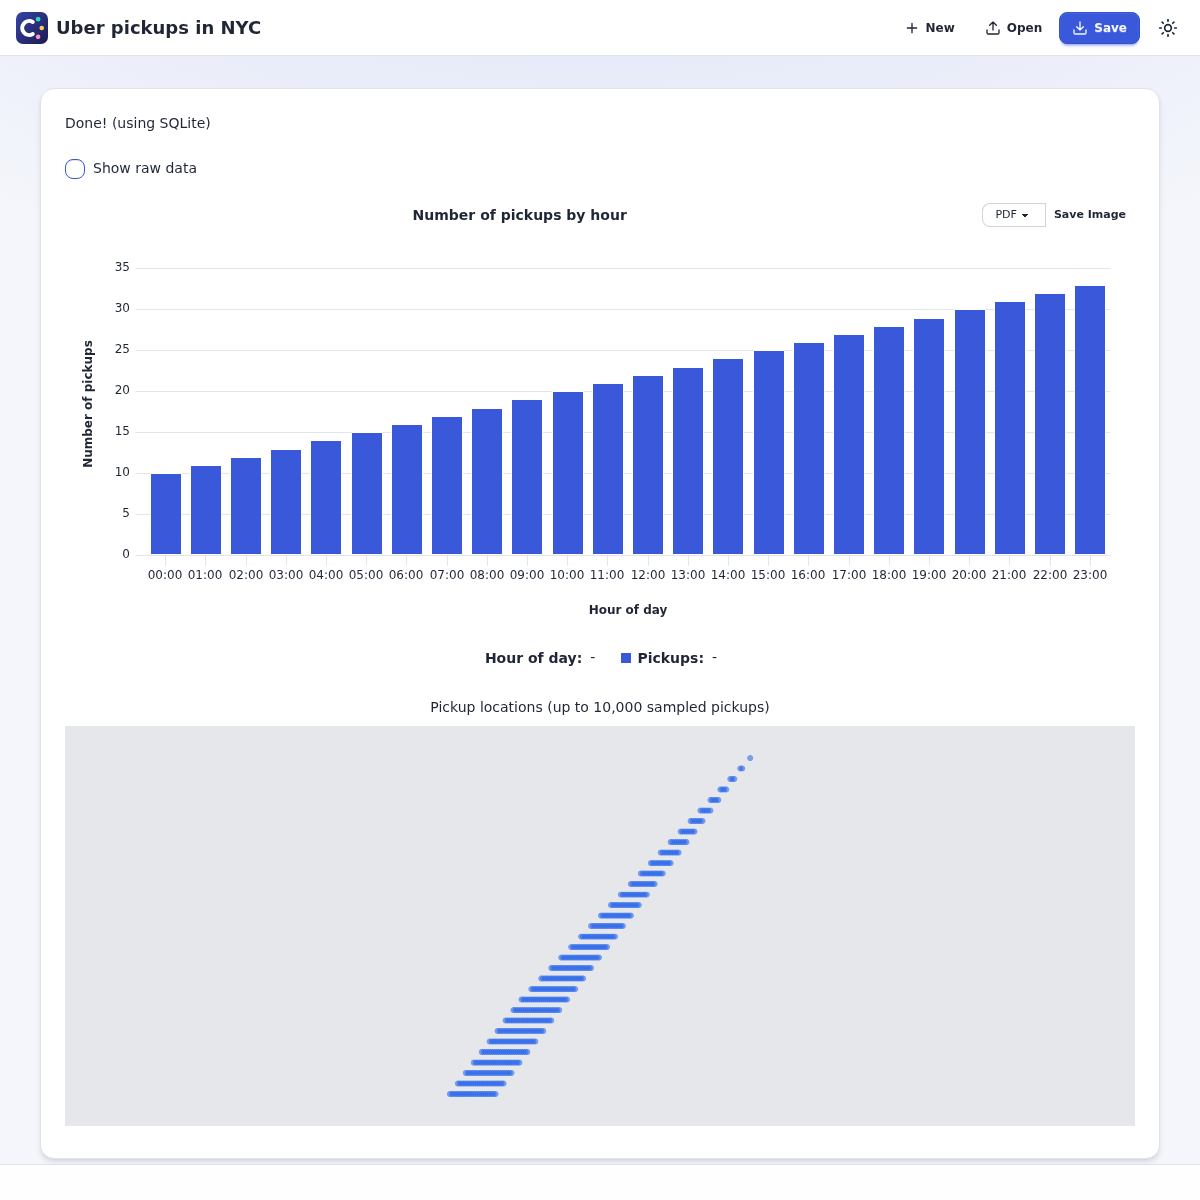
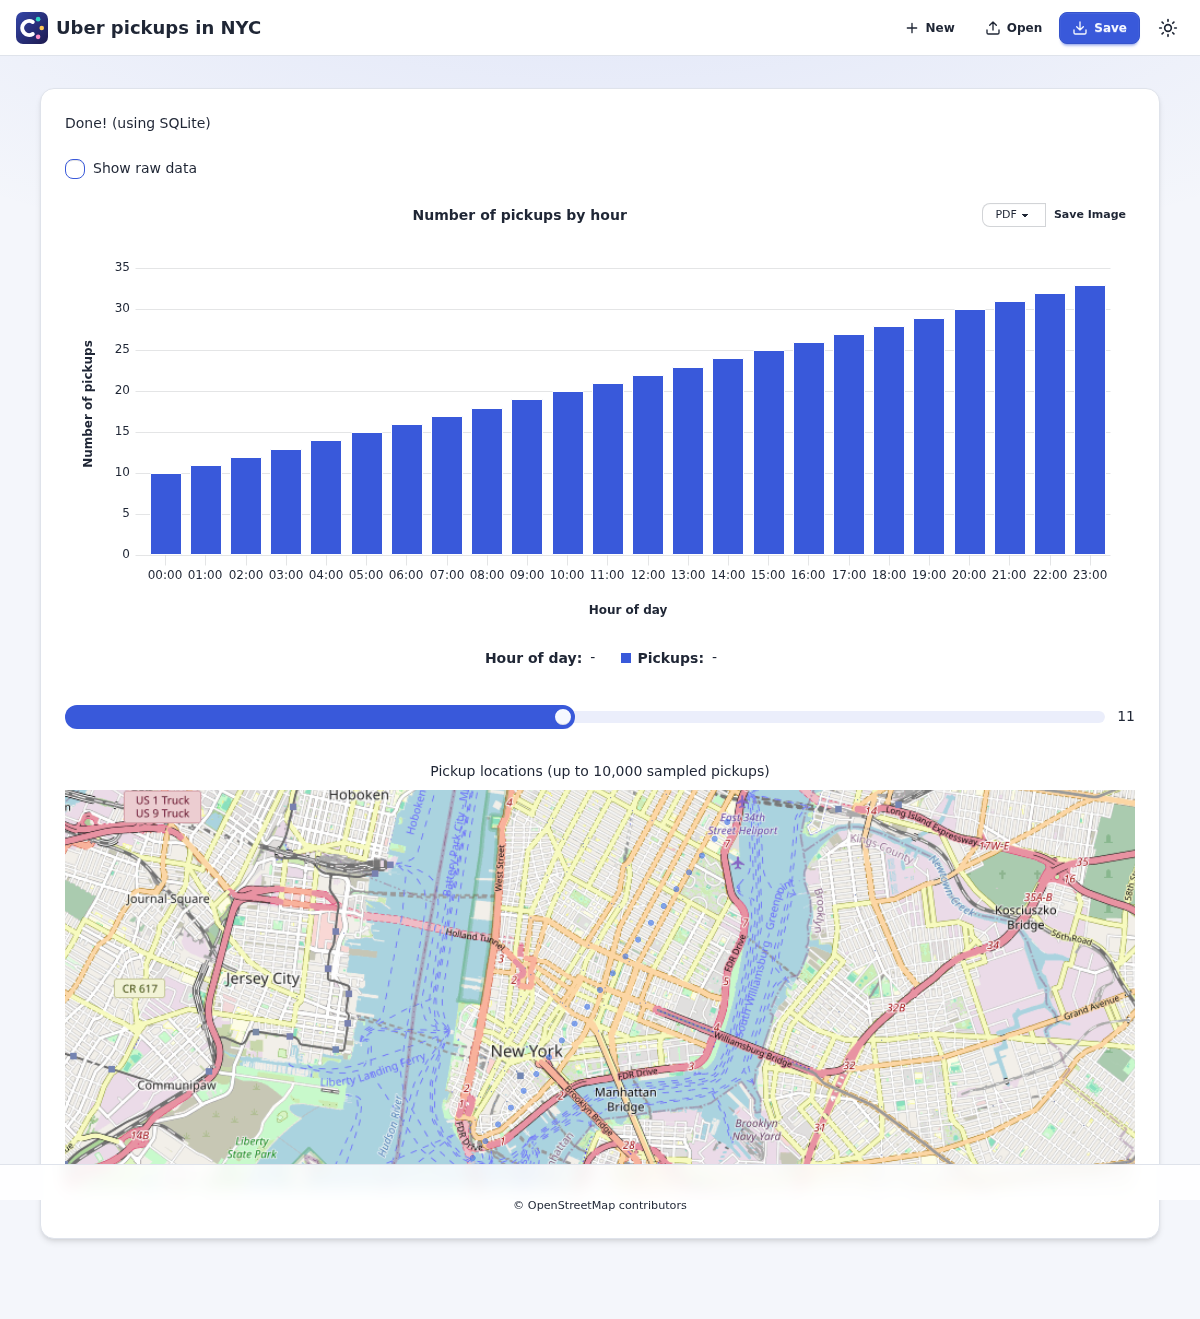
Show street maps in Uber example screenshots

diff --git a/docs/screenshots.py b/docs/screenshots.py
@@ -190,7 +190,7 @@ def _textual_demo(main_view: Any, _model: Optional[Model]) -> None:
 
 
 def _uberpickups_setup(main_view: Any, model: Any) -> None:
-    # Generated rows and no tiles keep screenshots independent of external services.
+    # Generated rows avoid downloading the full CSV; street tiles still need the network.
     with model.uber_data.connection() as db:
         db.executemany(
             "INSERT INTO uber_data VALUES (?, ?, ?, ?)",
@@ -205,7 +205,6 @@ def _uberpickups_setup(main_view: Any, model: Any) -> None:
                 for index in range(10 + hour)
             ],
         )
-    main_view.data.pickups_map.tiles = False
     main_view.connect_model(model)
 
 
@@ -318,7 +317,7 @@ def qt_screenshot(example: Example, path: Path) -> None:
     window.resize(*example.window)
     window.show()
     # a few passes: layouts settle, and pyqtgraph draws its charts once shown
-    for _ in range(10):
+    for _ in range(100 if example.name == "uberpickups" else 10):
         qt_app.processEvents()
         time.sleep(0.05)
     window.grab().save(str(path))
@@ -416,8 +415,10 @@ def web_screenshot(browser: Browser, example: Example, path: Path) -> None:
         page = context.new_page()
         page.goto(url)
         page.wait_for_load_state("networkidle")
+        if example.name == "uberpickups":
+            page.locator('[data-map][aria-busy="false"]').wait_for()
         page.wait_for_timeout(500)
-        page.screenshot(path=str(path))
+        page.screenshot(path=str(path), full_page=True)
         context.close()
 
 

diff --git a/docs/examples-guide.md b/docs/examples-guide.md
@@ -89,8 +89,8 @@ The initial hour is 11. Changing the slider queries the saved rows for the map o
 the chart and raw-data table still include all hours.
 It fits those locations automatically. After the user pans or zooms, it keeps that viewport.
 
-These screenshots use generated rows with map tiles disabled, so taking them needs no
-external service. Textual omits the map.
+These screenshots use generated rows and OpenStreetMap tiles. Taking them needs a network
+connection for the street map. Textual omits the map.
 
 | Qt | Textual | Web |
 | --- | --- | --- |
